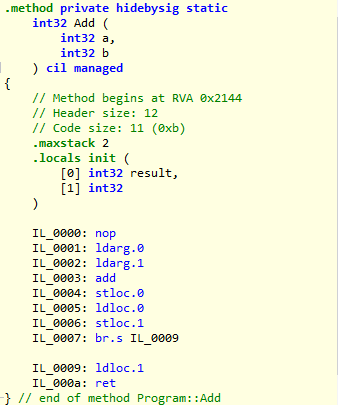
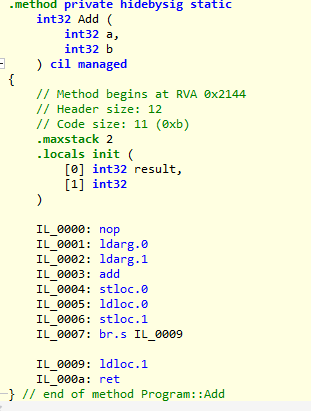
Lab02: README with control questions

diff --git a/README.md b/README.md
@@ -1,0 +1,9 @@
+## Результаты замера  Debug vs Release
+| Режим    | Запуск 1 | Запуск 2 | Запуск 3 | Запуск 4 | Запуск 5 | Минимум |
+| -----    | -------: | -------: | -------: | -------: | -------: | ------: |
+| Debug    | 719      | 736      | 716      | 718      | 693      | 693     |
+| Release  | 354      | 340      | 342      | 341      | 342      | 340     |
+
+В моем эксперименте Release оказался быстрее примерно в 2 раза.
+
+### Что я обнаружила про сравнении IL
